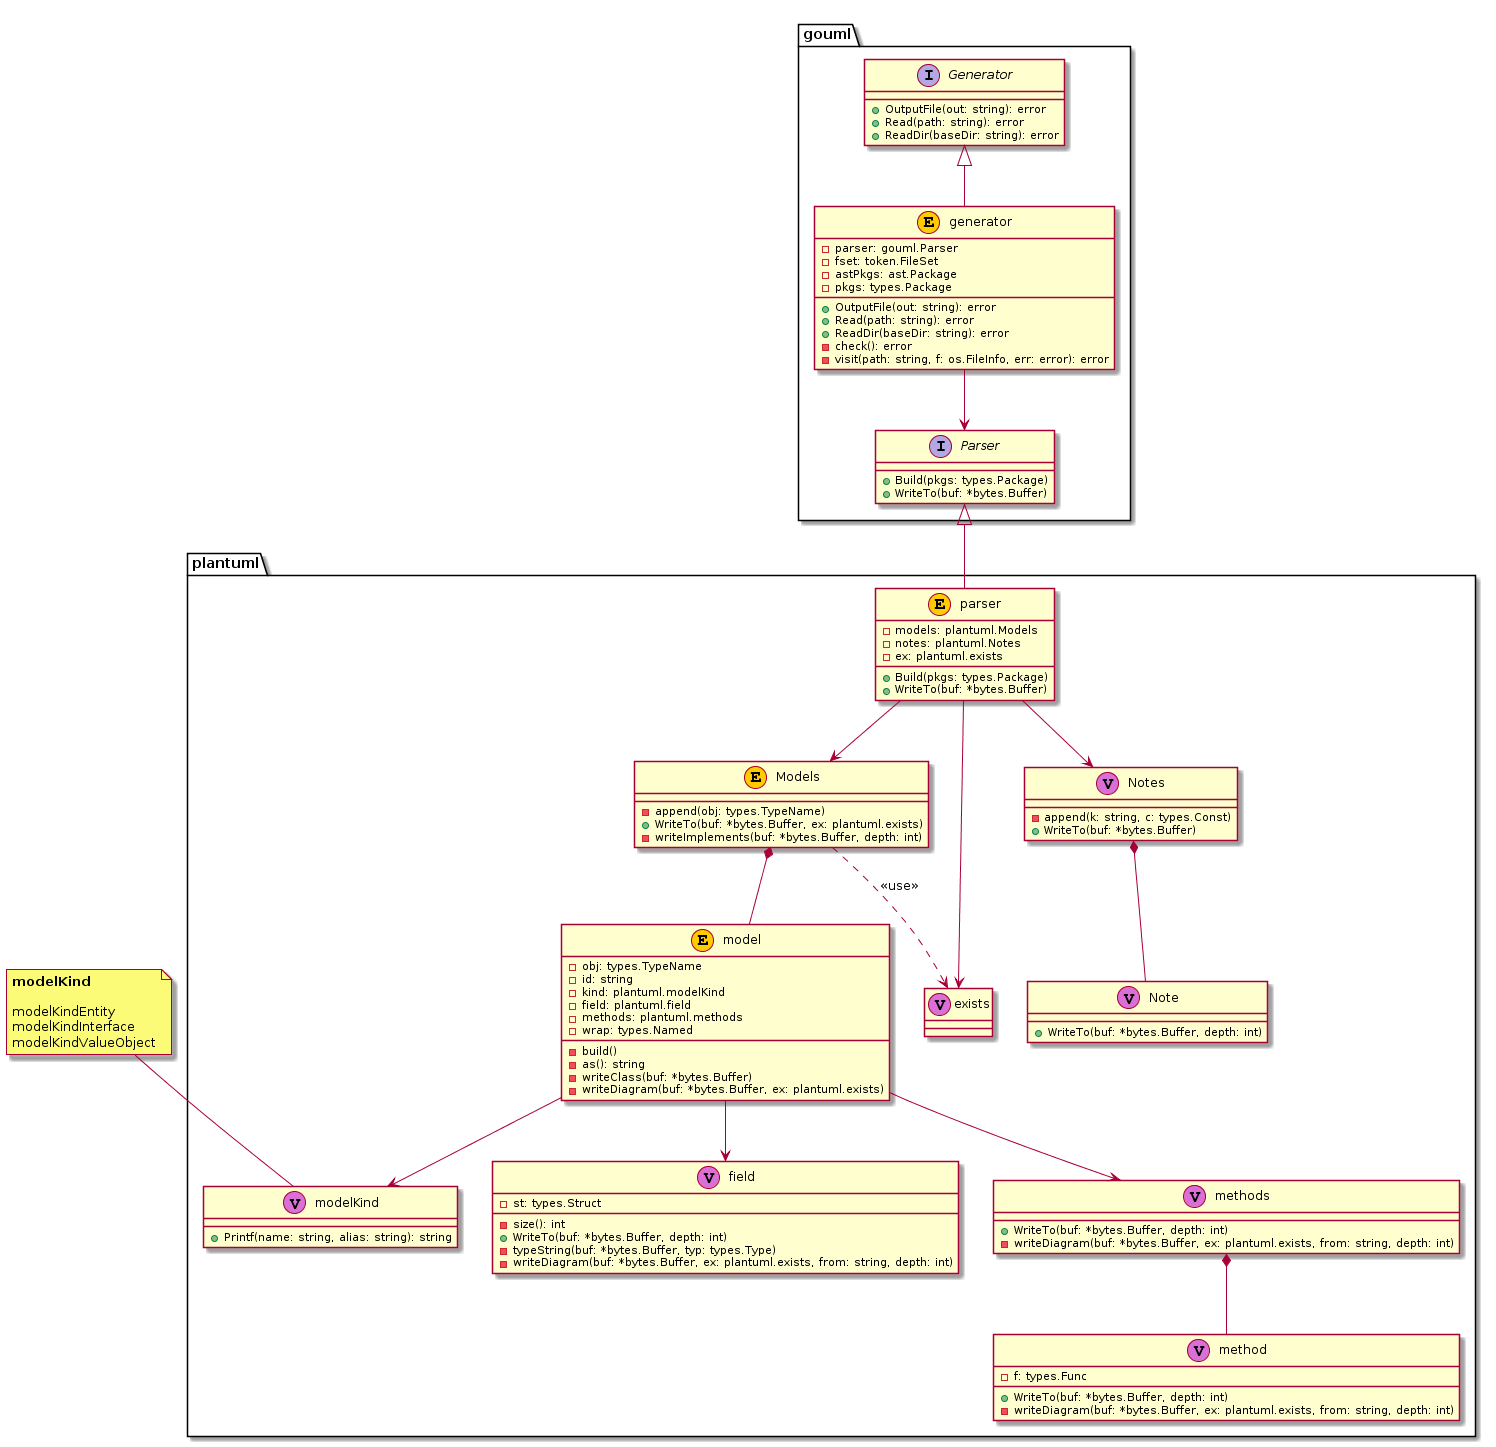
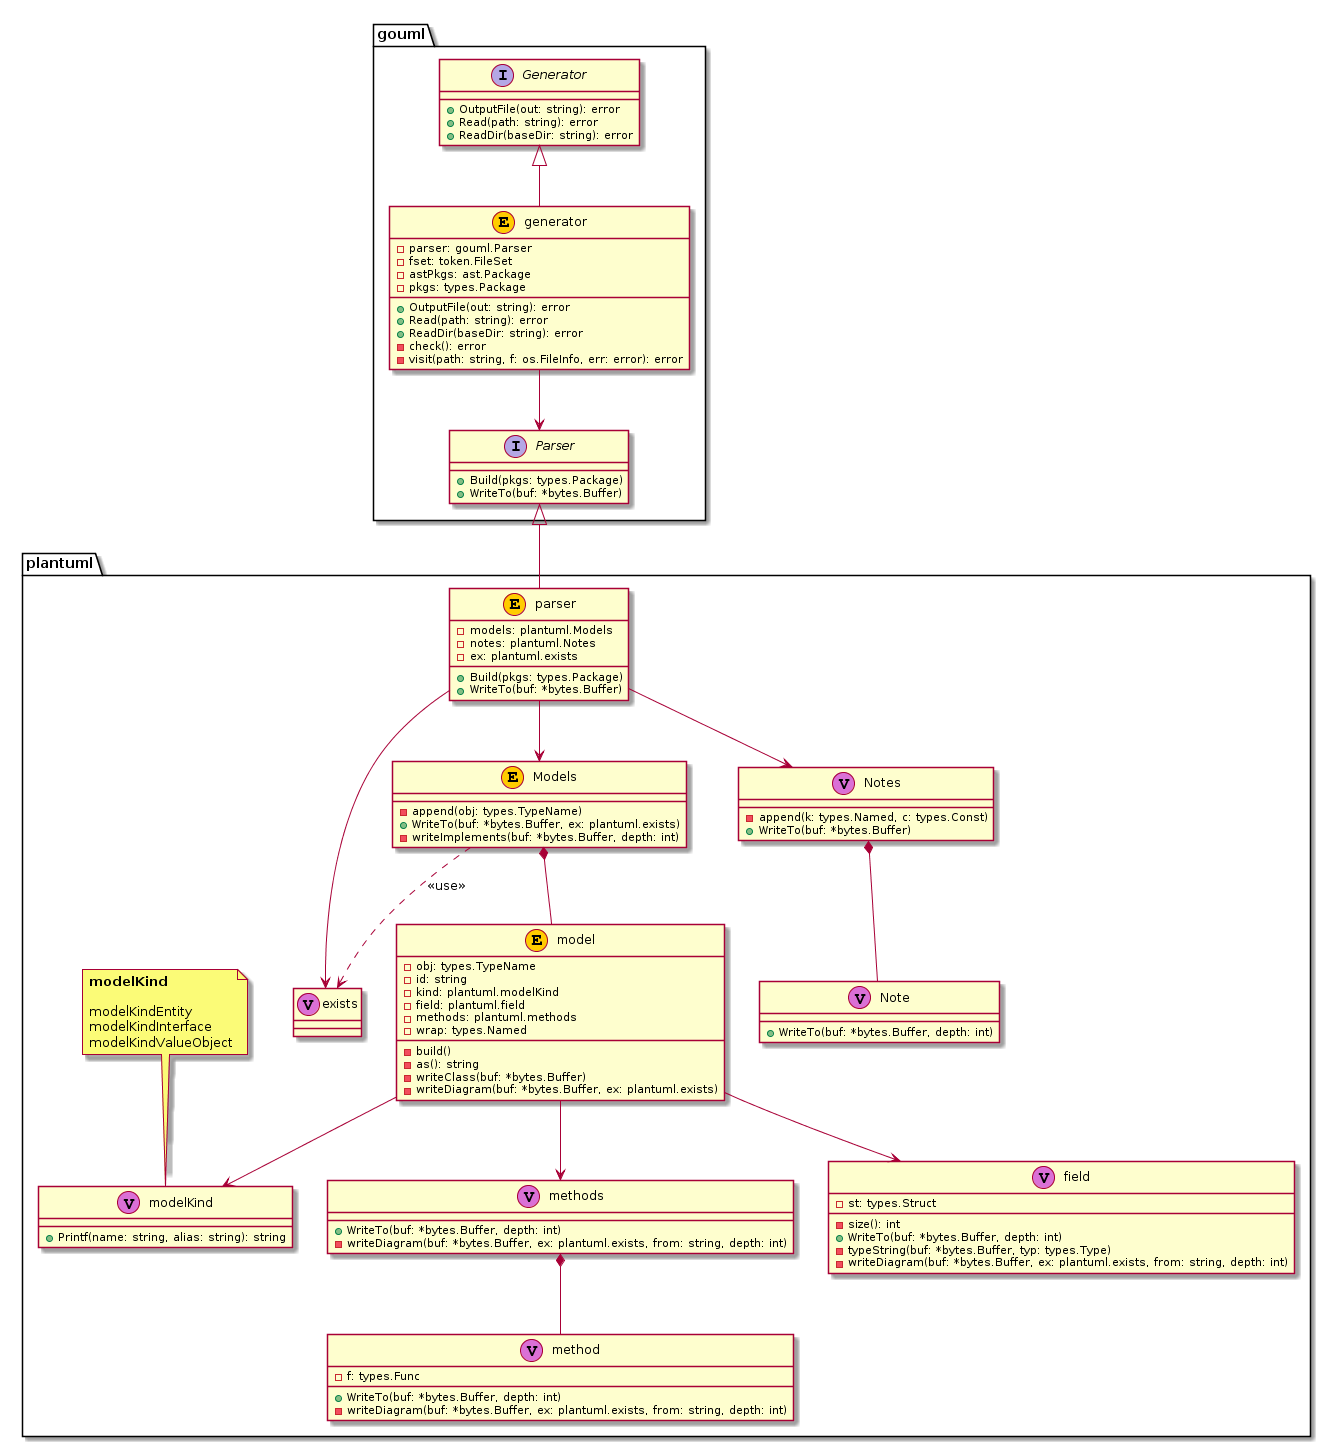
ref#15 draw note in package

diff --git a/internal/gouml/plantuml/note.go b/internal/gouml/plantuml/note.go
@@ -7,9 +7,9 @@ import (
 )
 
 // Notes ...
-type Notes map[string]Note
+type Notes map[*types.Named]Note
 
-func (ns Notes) append(k string, c *types.Const) {
+func (ns Notes) append(k *types.Named, c *types.Const) {
 	note, ok := ns[k]
 	if !ok {
 		note = []*types.Const{}
@@ -24,26 +24,33 @@ type Note []*types.Const
 // WriteTo ...
 func (ns Notes) WriteTo(buf *bytes.Buffer) {
 	newline(buf, 0)
-	for to, n := range ns {
+	for named, n := range ns {
+		to := extractName(named.String())
 		from := "N_" + strings.Replace(to, ".", "_", -1)
 
-		// write header
 		newline(buf, 0)
+		buf.WriteString(`package "`)
+		buf.WriteString(named.Obj().Pkg().Name())
+		buf.WriteString(`" {`)
+
+		// write header
+		newline(buf, 1)
 		buf.WriteString("note as ")
 		buf.WriteString(from)
-		{
-			// write title
-			newline(buf, 1)
-			buf.WriteString("<b>")
-			buf.WriteString(extractTypeName(to))
-			buf.WriteString("</b>\n")
+		// write title
+		newline(buf, 2)
+		buf.WriteString("<b>")
+		buf.WriteString(extractTypeName(to))
+		buf.WriteString("</b>\n")
 
-			// write elements
-			n.WriteTo(buf, 1)
-		}
+		// write elements
+		n.WriteTo(buf, 2)
 		// write footer
-		newline(buf, 0)
+		newline(buf, 1)
 		buf.WriteString("end note")
+
+		newline(buf, 0)
+		buf.WriteString(`}`)
 
 		// write relation
 		newline(buf, 0)

diff --git a/internal/gouml/plantuml/parser.go b/internal/gouml/plantuml/parser.go
@@ -46,8 +46,7 @@ func (p *parser) Build(pkgs []*types.Package) {
 		// declared constant
 		case *types.Const:
 			if named, _ := obj.Type().(*types.Named); named != nil {
-				id := extractName(named.String())
-				p.notes.append(id, obj)
+				p.notes.append(named, obj)
 			}
 		}
 	}
